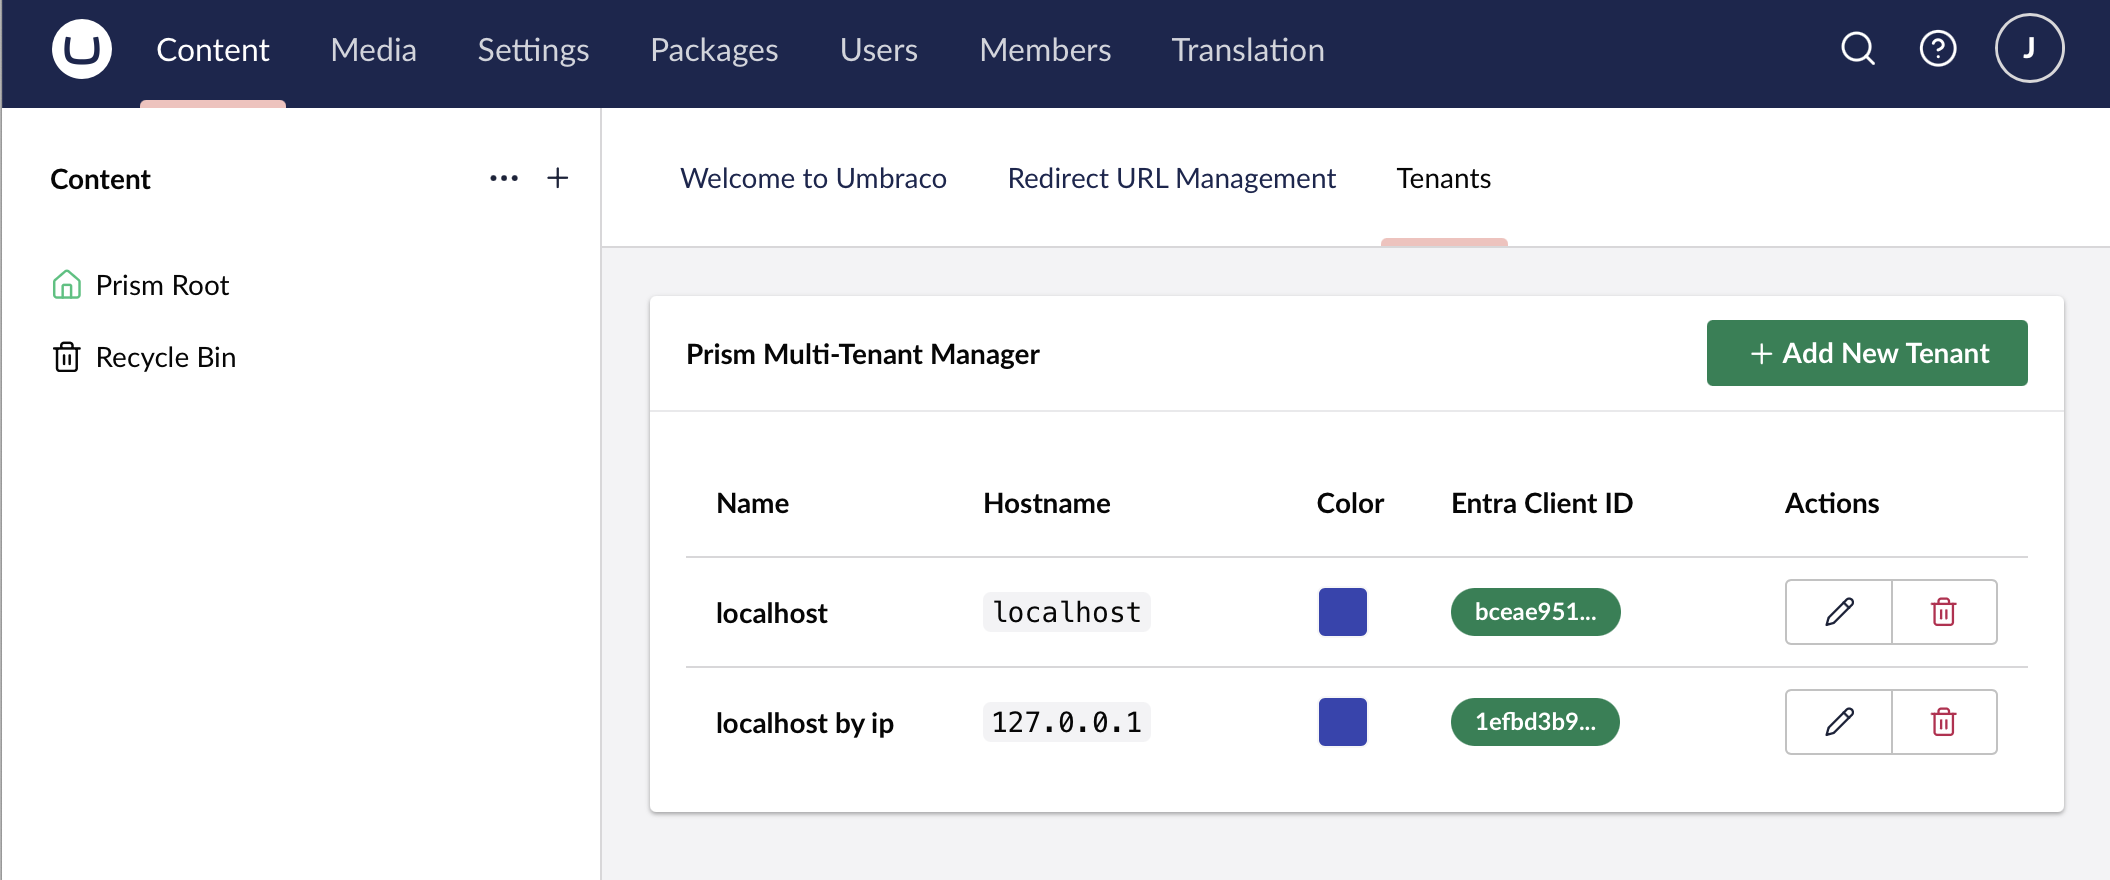
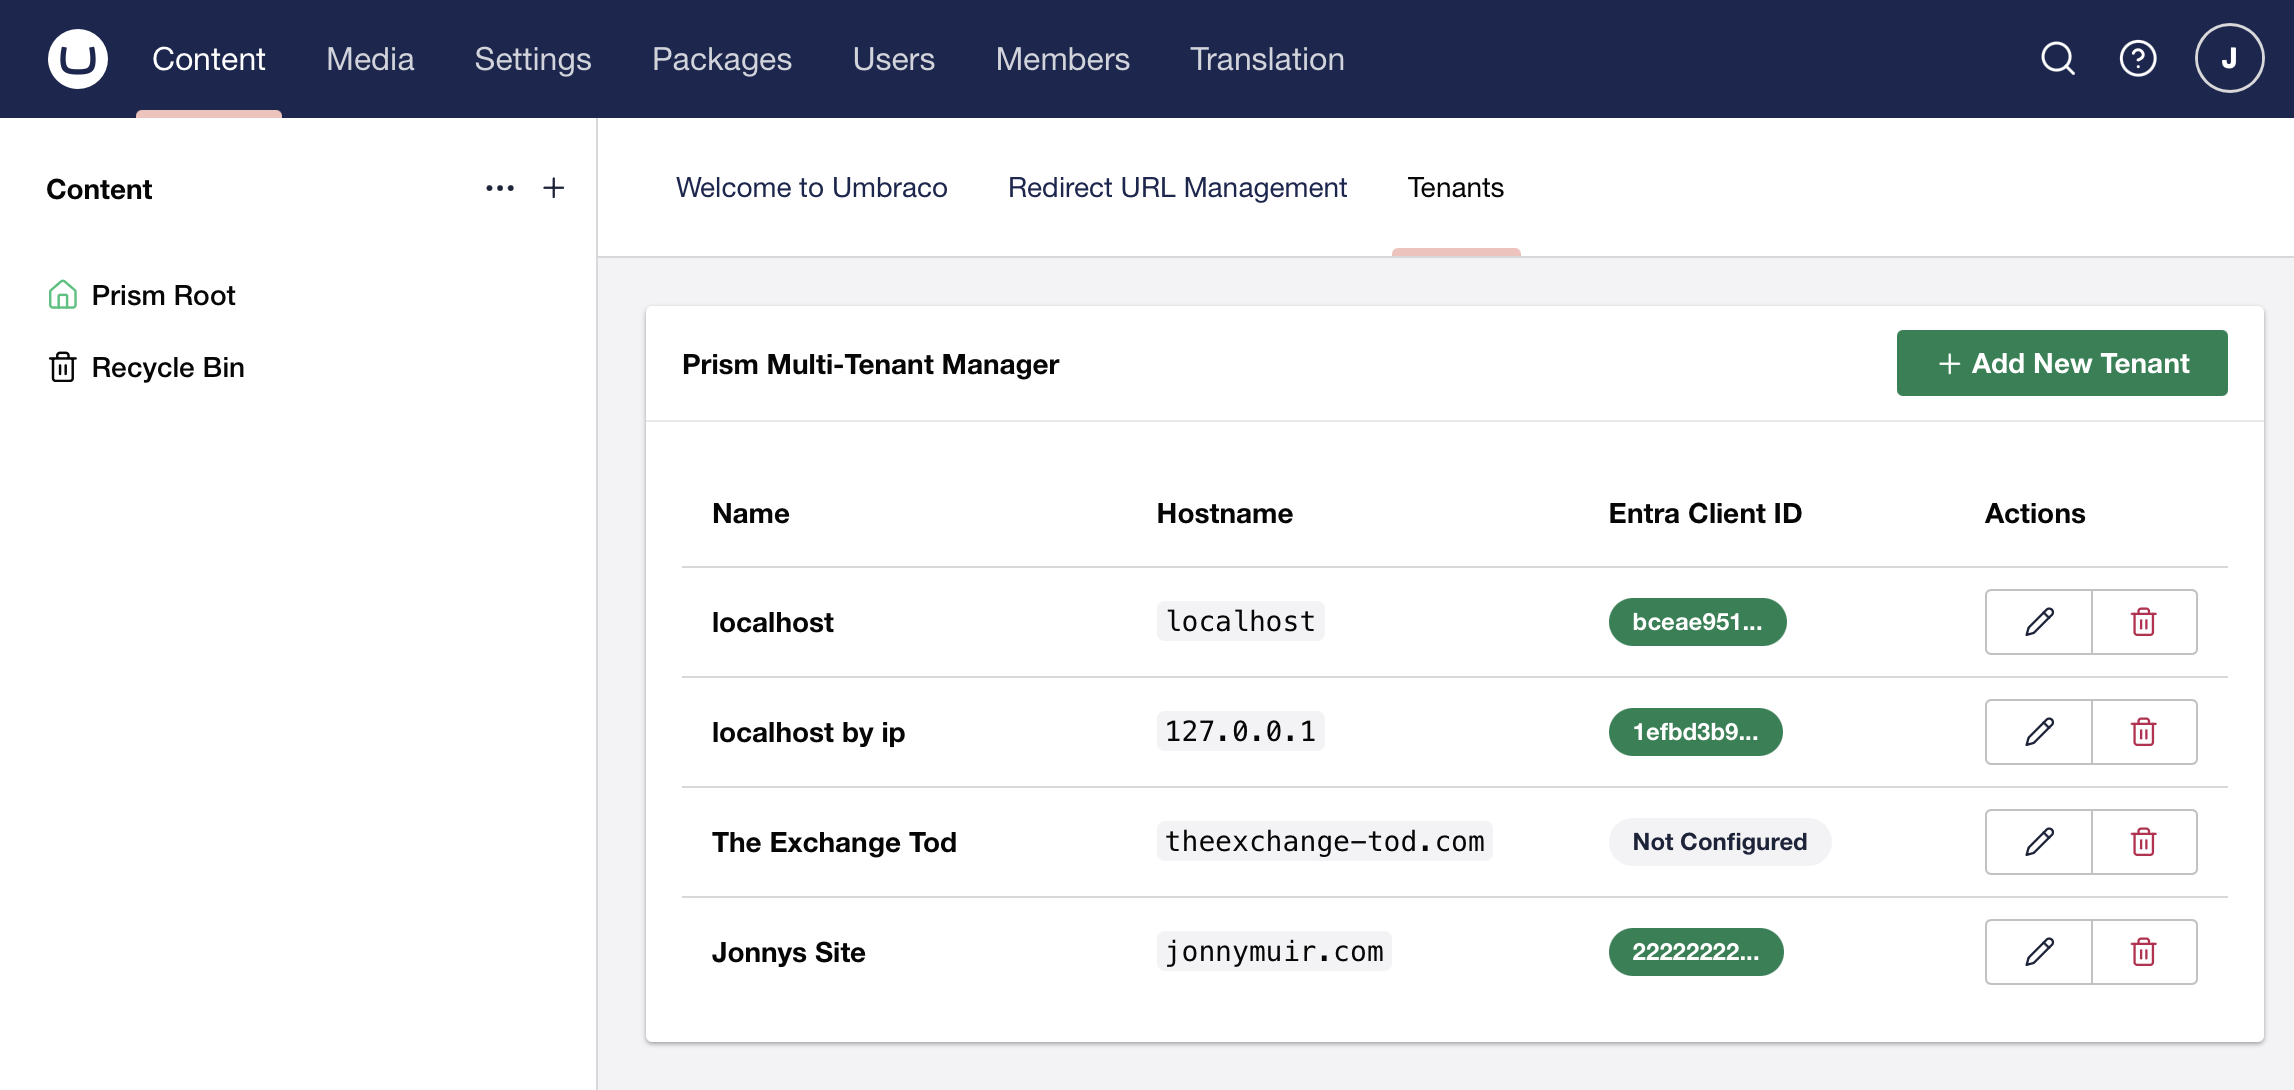
Refactor code structure for improved readability and maintainability

diff --git a/src/UmbracoPrism.Client/src/prism-create-tenant-modal.ts b/src/UmbracoPrism.Client/src/prism-create-tenant-modal.ts
@@ -245,9 +245,9 @@ export class PrismCreateTenantModalElement extends UmbElementMixin(LitElement) {
         class="tab-content">
         <uui-box>
           <uui-table>
-            <uui-table-column style="width: 35%"></uui-table-column>
-            <uui-table-column style="width: 35%"></uui-table-column>
-            <uui-table-column style="width: 30%"></uui-table-column>
+            <uui-table-column style="width: 20%"></uui-table-column>
+            <uui-table-column style="width: 20%"></uui-table-column>
+            <uui-table-column style="width: 60%"></uui-table-column>
 
             <uui-table-head>
               <uui-table-head-cell>Variable</uui-table-head-cell>

diff --git a/src/UmbracoPrism.Core/Middleware/PrismBrandingMiddleware.cs b/src/UmbracoPrism.Core/Middleware/PrismBrandingMiddleware.cs
@@ -43,6 +43,13 @@ public class PrismBrandingMiddleware(RequestDelegate next)
             return;
         }
 
+        if (context.WebSockets.IsWebSocketRequest
+            || context.Request.Headers.ContainsKey("Upgrade")
+            || context.Response.Headers.ContainsKey("Upgrade"))
+        {
+            return;
+        }
+
         buffer.Seek(0, SeekOrigin.Begin);
 
         var bodyText = await new StreamReader(buffer, Encoding.UTF8).ReadToEndAsync();

diff --git a/README.md b/README.md
@@ -22,7 +22,21 @@ You are a service provider offering a portal with consistent functionality acros
 
 ### Easy backoffice setup
 
+Create and edit tenants in the back office.
+
 ![Shows how tenant editing appears in the umbraco back office](backoffice.png)
+
+An editable realtime design system using css variables.
+
+![Shows how altering branding works](backoffice2.png)
+
+See changes in real time on your site without any recompilation.
+
+![Test site with overrides](testsite-overrides.png)
+
+Compared to without overrides.
+
+![Test site without overrides](testsite.png)
 
 
 ### Simple to debug
